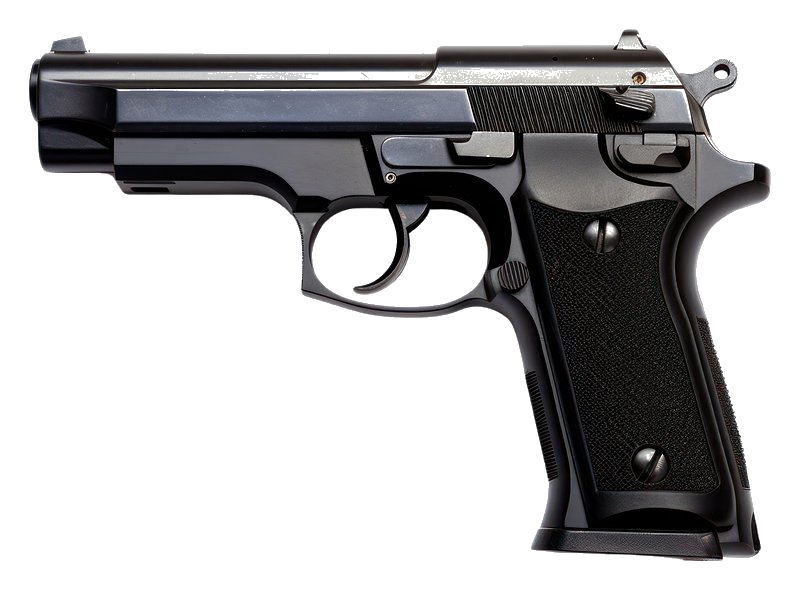
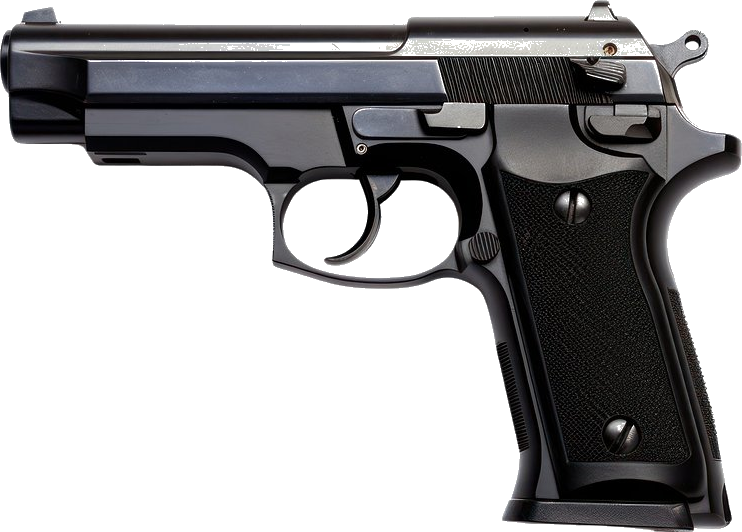
Crop PNGs to content bbox and regenerate contours
Soldiers image had 22% left/17% right padding causing contour offset.
All three images now cropped tight to their content so the contour
grid maps 1:1 to the actual figure geometry.

🤖 Generated with [Claude Code](https://claude.ai/code)

diff --git a/process_images.py b/process_images.py
@@ -53,4 +53,11 @@ if __name__ == "__main__":
     ]
     for src, dst, name in images:
         remove_bg(src, dst)
+        # Crop to content bounding box so contour grid aligns with figure exactly
+        img = Image.open(dst).convert("RGBA")
+        bbox = img.getbbox()
+        if bbox:
+            img = img.crop(bbox)
+            img.save(dst)
+            print(f"Cropped {dst} to {img.size}")
         gen_contour(dst, name)